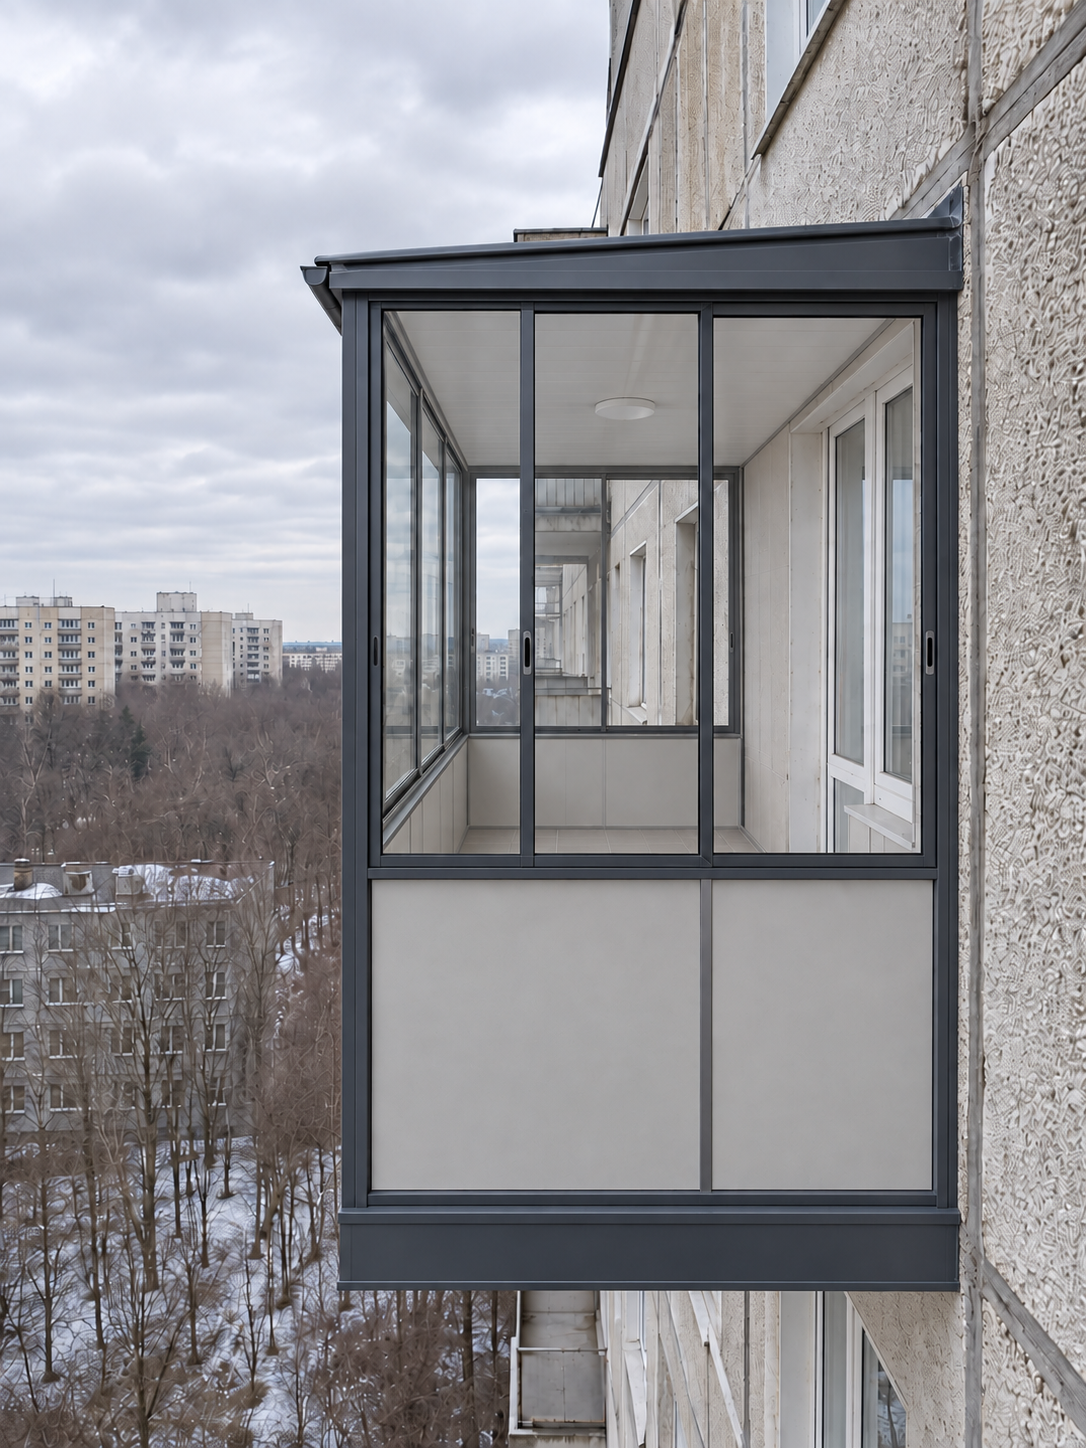
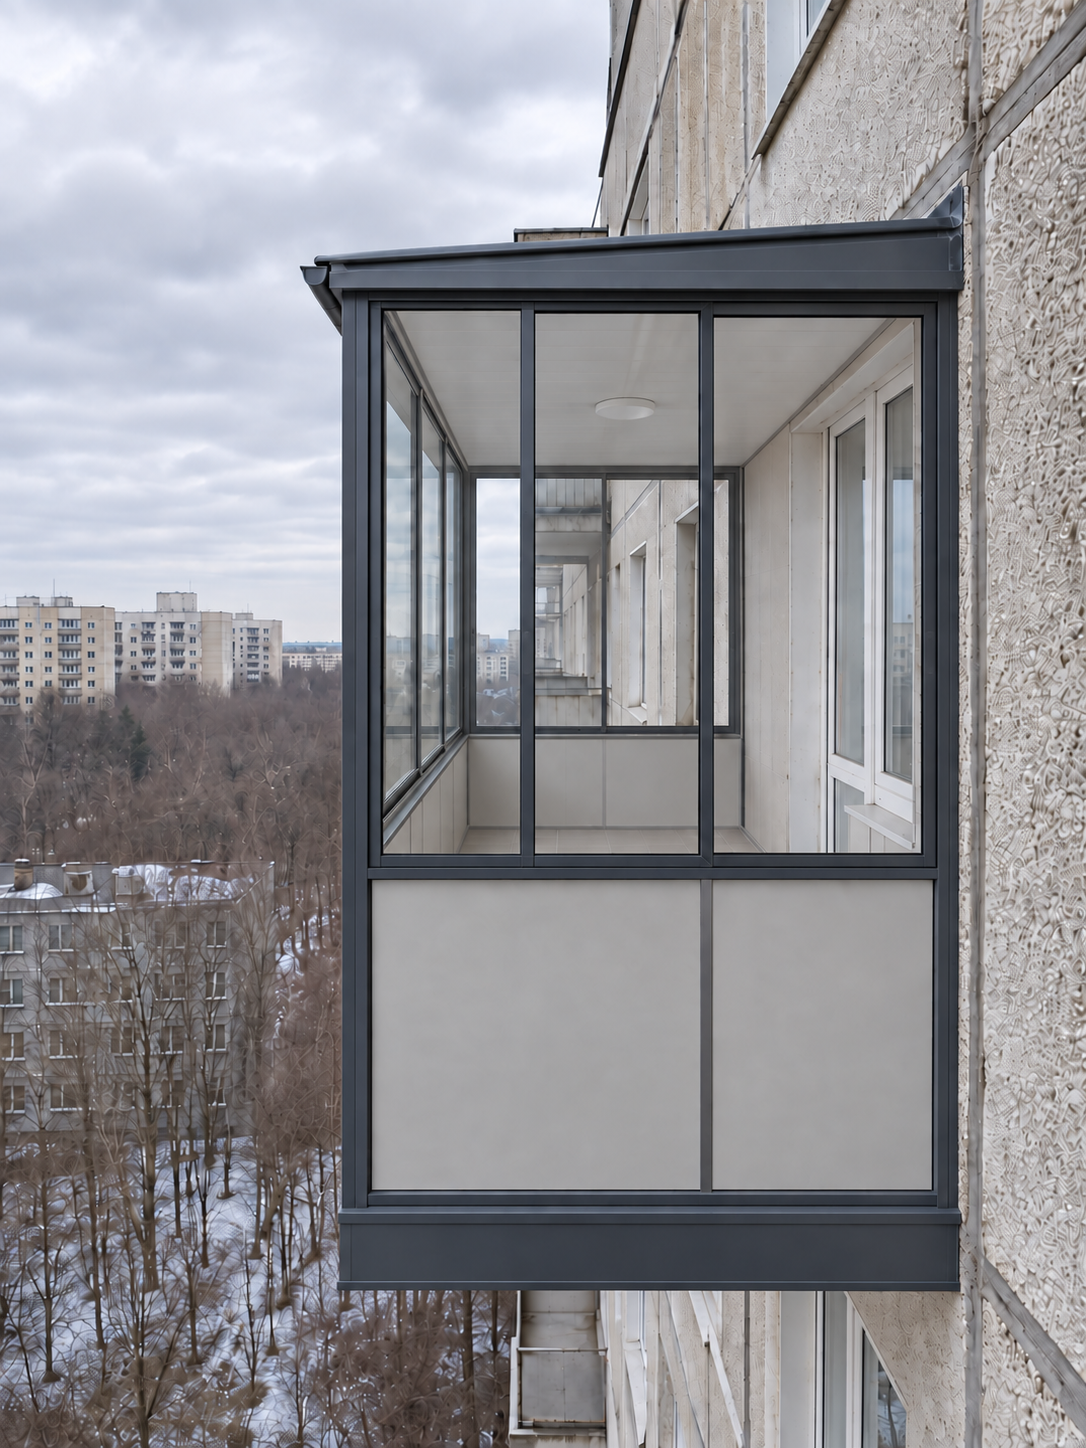
r

diff --git a/public/styles-extra.css b/public/styles-extra.css
@@ -3346,3 +3346,33 @@ body{min-width:0;max-width:100%;overflow-x:clip}
   flex:0 0 32px;
  }
 }
+
+/* Desktop proof cards: place each icon before its text. */
+@media(min-width:641px){
+ .trust-strip .trust-item,
+ .landing-trust .trust-item,
+ .home-page .trust-strip .trust-item{
+  display:flex;
+  flex-direction:row;
+  align-items:center;
+  justify-content:center;
+  gap:16px;
+  text-align:left;
+ }
+ .trust-strip .trust-copy,
+ .landing-trust .trust-copy,
+ .home-page .trust-strip .trust-copy{
+  width:auto;
+  align-items:flex-start;
+ }
+ .trust-strip .trust-copy strong,
+ .landing-trust .trust-copy strong,
+ .home-page .trust-strip .trust-copy strong,
+ .trust-strip .trust-copy span,
+ .landing-trust .trust-copy span,
+ .home-page .trust-strip .trust-copy span{
+  width:auto;
+  justify-content:flex-start;
+  text-align:left;
+ }
+}
